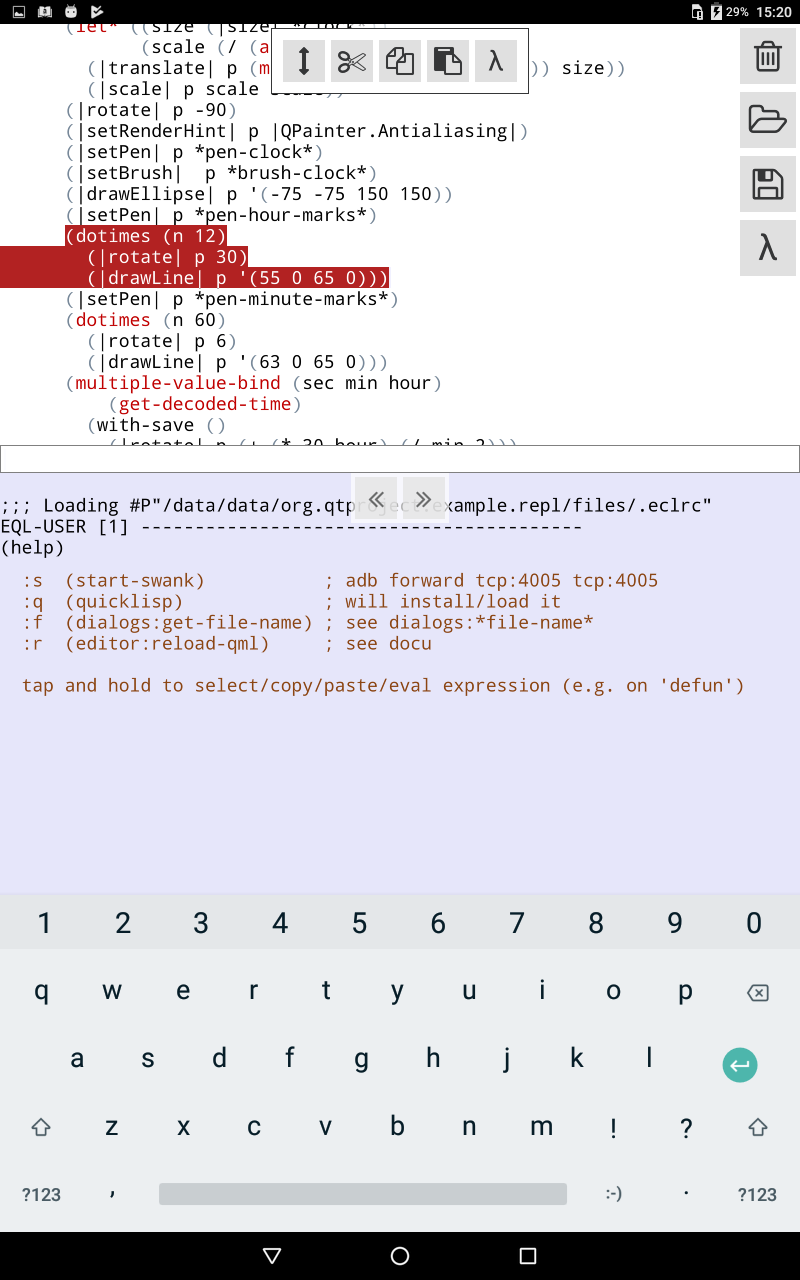
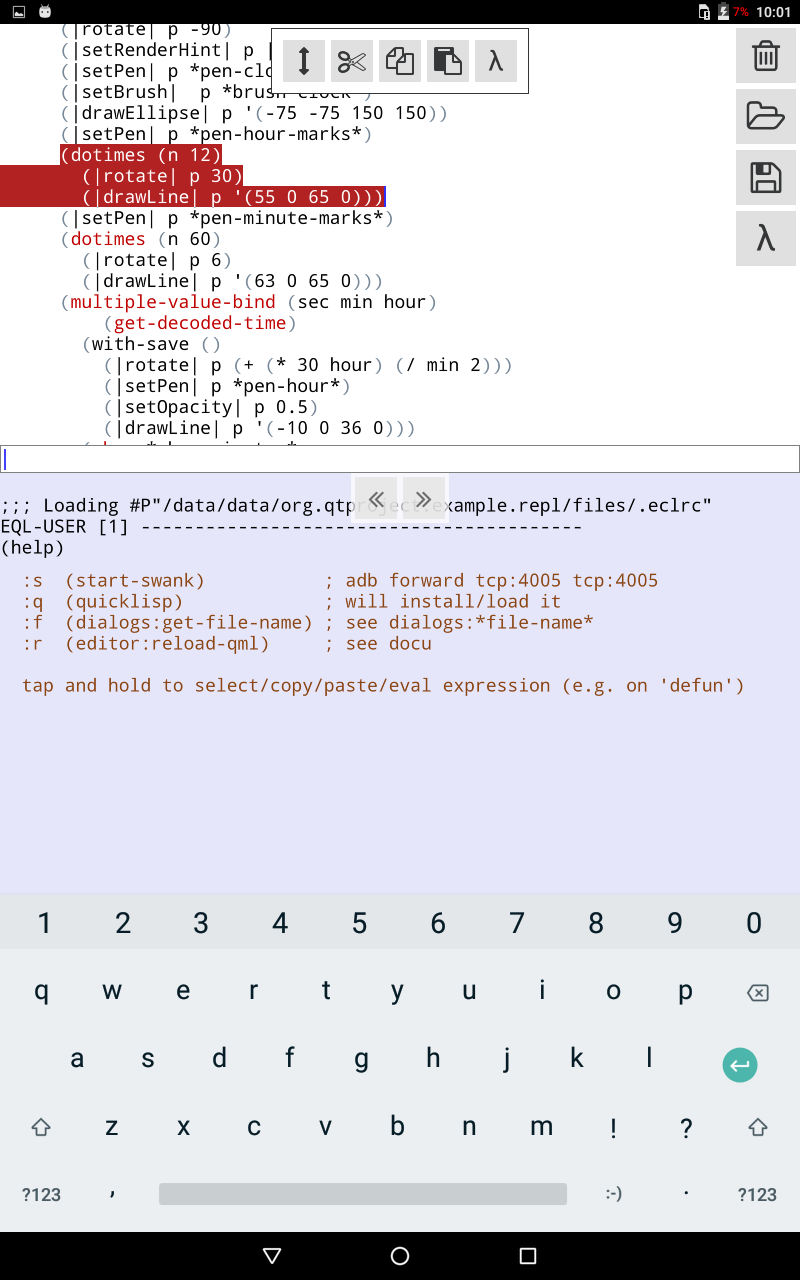
example REPL: add undo, redo; update screenshots;

Changed region(s): [[0.0, 0.0, 0.6562, 0.3438], [0.875, 0.0, 1.0, 0.2188], [0.7188, 0.0312, 0.75, 0.0625]]

diff --git a/examples/REPL/qml/repl.qml b/examples/REPL/qml/repl.qml
@@ -90,6 +90,14 @@ Rectangle {
             spacing: 6
 
             Ext.MenuButton {
+                text: "\uf0e2"
+                onClicked: edit.undo()
+            }
+            Ext.MenuButton {
+                text: "\uf01e"
+                onClicked: edit.redo()
+            }
+            Ext.MenuButton {
                 objectName: "font_smaller"
                 text: "\uf010"
                 font.pixelSize: 15
@@ -185,7 +193,7 @@ Rectangle {
         Column {
             id: buttonsRight
             padding: 4
-            spacing: 8
+            spacing: 6
 
             Ext.Button {
                 objectName: "clear"

diff --git a/examples/REPL/qml/ext/Button.qml b/examples/REPL/qml/ext/Button.qml
@@ -2,8 +2,8 @@ import QtQuick 2.0
 import QtQuick.Controls 2.0
 
 Button {
-    width: 56
-    height: 56
+    width: 60
+    height: 55
     font.family: fontAwesome.name
     font.pixelSize: 36
     focusPolicy: Qt.NoFocus
